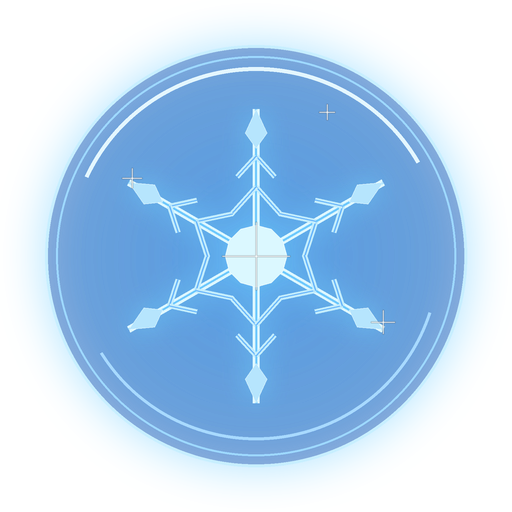
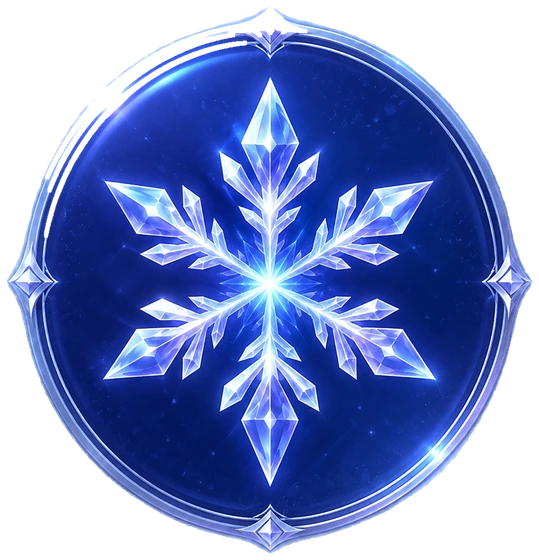
Fix booking page to use real crystal assets

diff --git a/order.html b/order.html
@@ -19,7 +19,7 @@
             --order-pink: #d9adff;
             --order-good: #8ff2ca;
             --order-warn: #ffd184;
-            --order-lake-bg: url("./assets/images/预约背景.png?v=20260715-booking-crystal-lake2");
+            --order-lake-bg: url("./assets/images/预约背景.png?v=20260716-booking-real-crystal1");
             font-family: "Microsoft YaHei", "PingFang SC", system-ui, -apple-system, BlinkMacSystemFont, sans-serif;
         }
 
@@ -32,7 +32,7 @@
             margin: 0;
             color: var(--order-text);
             background:
-                linear-gradient(180deg, rgba(3, 15, 48, 0.08), rgba(3, 16, 50, 0.3)),
+                linear-gradient(180deg, rgba(3, 15, 48, 0.02), rgba(3, 16, 50, 0.12)),
                 var(--order-lake-bg) center / cover fixed no-repeat,
                 #061224;
         }
@@ -43,9 +43,9 @@
             inset: 0;
             pointer-events: none;
             background:
-                linear-gradient(90deg, rgba(2, 12, 42, 0.28) 0%, transparent 22%, transparent 72%, rgba(2, 10, 38, 0.2) 100%),
-                linear-gradient(180deg, transparent 54%, rgba(2, 12, 42, 0.2) 100%);
-            opacity: 0.72;
+                linear-gradient(90deg, rgba(2, 12, 42, 0.1) 0%, transparent 22%, transparent 72%, rgba(2, 10, 38, 0.08) 100%),
+                linear-gradient(180deg, transparent 54%, rgba(2, 12, 42, 0.08) 100%);
+            opacity: 0.58;
         }
 
         a {
@@ -519,10 +519,10 @@
         .order-panel,
         .order-empty {
             border: 1px solid rgba(198, 234, 255, 0.48);
-            background: linear-gradient(145deg, rgba(63, 121, 193, 0.18), rgba(7, 24, 68, 0.42)), rgba(8, 27, 70, 0.26);
+            background: linear-gradient(145deg, rgba(63, 121, 193, 0.12), rgba(7, 24, 68, 0.24)), rgba(8, 27, 70, 0.16);
             box-shadow: 0 15px 42px rgba(2, 8, 35, 0.28), inset 0 1px 0 rgba(255, 255, 255, 0.22), inset 0 -1px 0 rgba(100, 185, 255, 0.08);
-            -webkit-backdrop-filter: blur(12px) saturate(1.16);
-            backdrop-filter: blur(12px) saturate(1.16);
+            -webkit-backdrop-filter: blur(8px) saturate(1.12);
+            backdrop-filter: blur(8px) saturate(1.12);
         }
 
         .order-nav::after,
@@ -534,7 +534,7 @@
             inset: 0;
             border-radius: inherit;
             pointer-events: none;
-            background: linear-gradient(135deg, rgba(255, 255, 255, 0.12), transparent 18%) top left / 38% 50% no-repeat, linear-gradient(315deg, rgba(130, 201, 255, 0.11), transparent 17%) bottom right / 35% 45% no-repeat;
+            background: linear-gradient(135deg, rgba(255, 255, 255, 0.07), transparent 18%) top left / 38% 50% no-repeat, linear-gradient(315deg, rgba(130, 201, 255, 0.06), transparent 17%) bottom right / 35% 45% no-repeat;
         }
 
         .order-nav {
@@ -956,11 +956,11 @@
                 <h1 class="order-title">服务预约</h1>
                 <p class="order-copy">提交后，君雪会确认时间、服务内容和最终金额。需要补款时，会通过微信 / 支付宝等方式与你线下确认。</p>
                 <div class="order-status" data-order-status aria-live="polite">正在确认登录状态...</div>
-                <img class="order-hero-crystal" src="assets/images/冰晶素材2-clean.webp?v=20260715-booking-crystal-lake2" alt="" aria-hidden="true">
+                <img class="order-hero-crystal" src="assets/images/冰晶素材2-clean.webp?v=20260716-booking-real-crystal1" alt="" aria-hidden="true">
             </div>
             <aside class="order-card order-meta" data-order-account hidden>
                 <div class="order-account-head">
-                    <img class="order-account-emblem" src="assets/images/冰晶素材-clean.webp?v=20260715-booking-crystal-lake2" alt="" aria-hidden="true">
+                    <img class="order-account-emblem" src="assets/images/冰晶素材-clean.webp?v=20260716-booking-real-crystal1" alt="" aria-hidden="true">
                     <div class="order-account-label">
                         <span>当前账号</span>
                         <strong data-order-display-name>--</strong>
@@ -1083,6 +1083,6 @@
     </main>
 
     <script src="assets/supabase-client.js?v=20260627-home-performance1"></script>
-    <script src="assets/order.js?v=20260715-booking-crystal-lake2"></script>
+    <script src="assets/order.js?v=20260716-booking-real-crystal1"></script>
 </body>
 </html>

diff --git a/assets/order.js b/assets/order.js
@@ -1,7 +1,7 @@
 (function () {
     "use strict";
 
-    const VERSION = "20260715-booking-crystal-lake2";
+    const VERSION = "20260716-booking-real-crystal1";
     const LOGIN_TEXT = "请先登录老板账号。";
     const SQL_HINT = "服务预约功能需要先执行 Supabase 第 17 节 SQL。";
     const VOUCHER_SQL_HINT = "兑换券功能需要先完成积分兑换数据库升级。";
